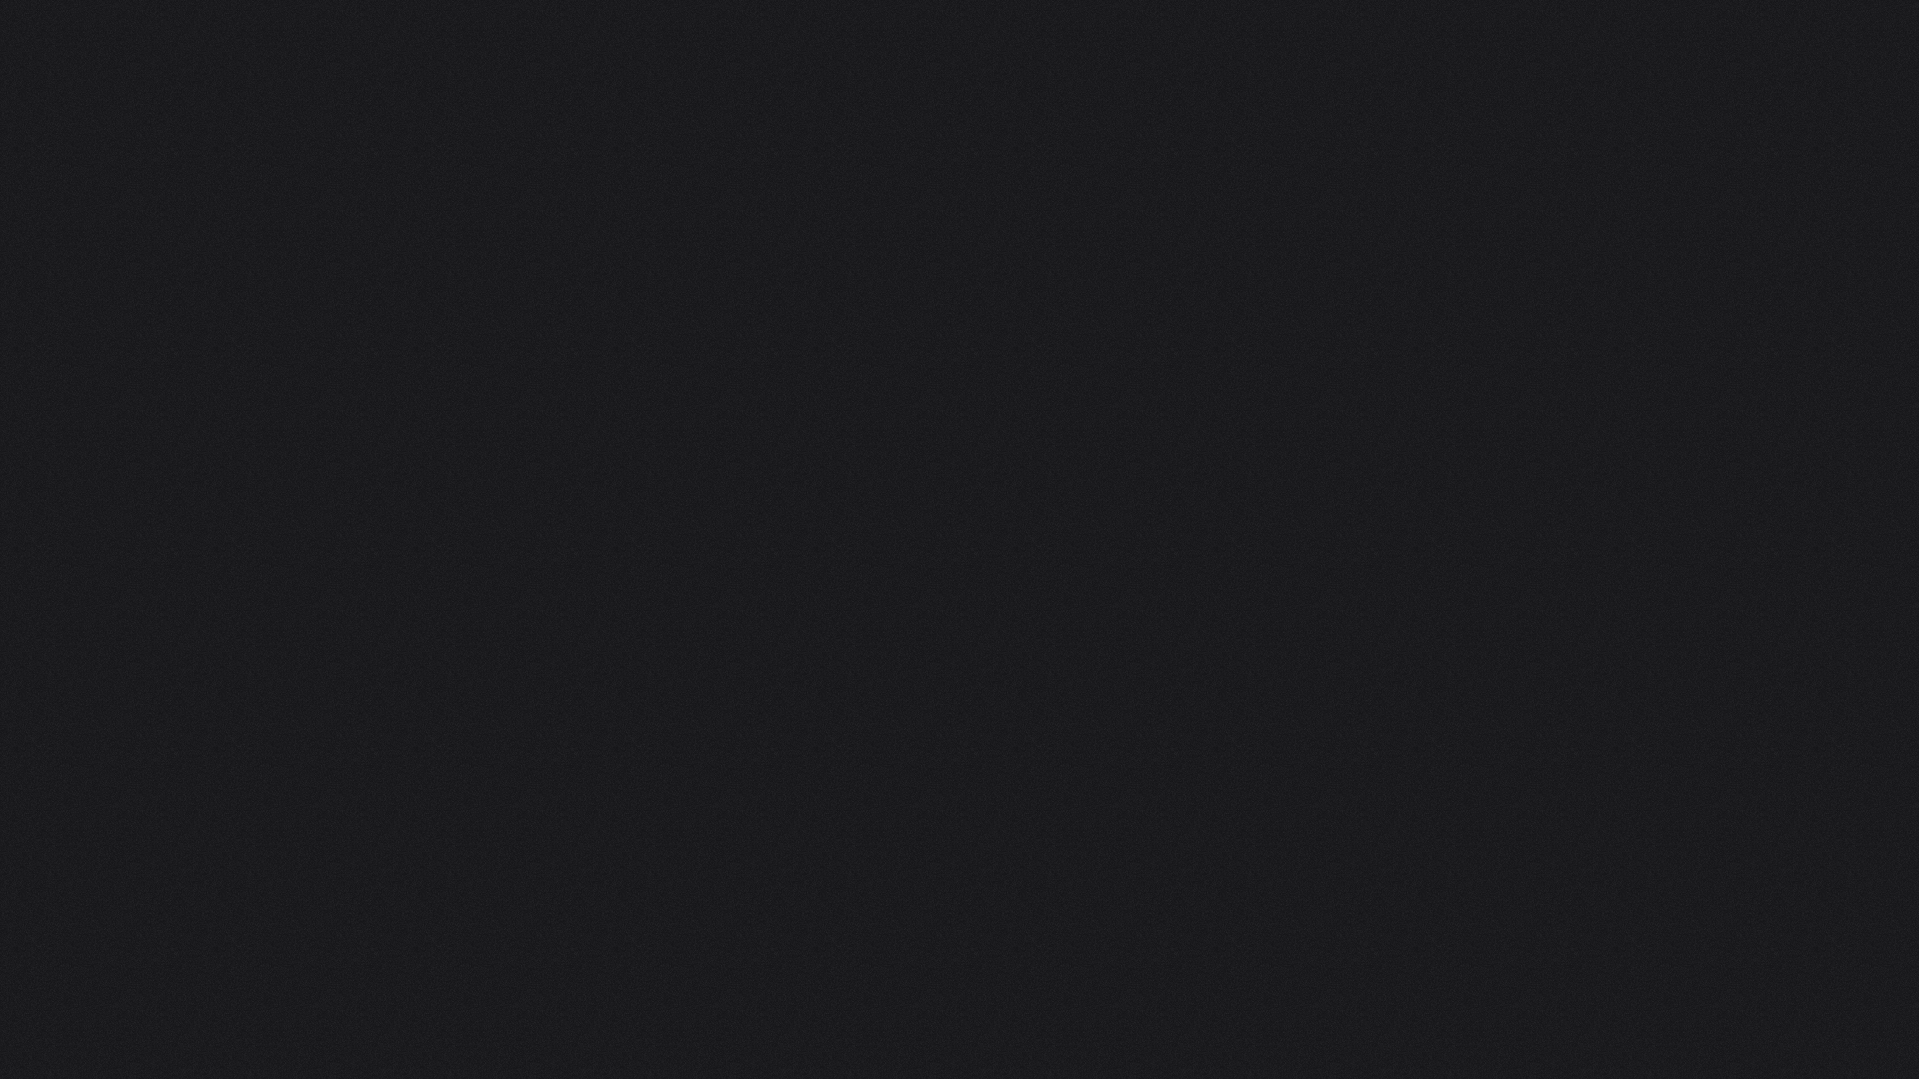
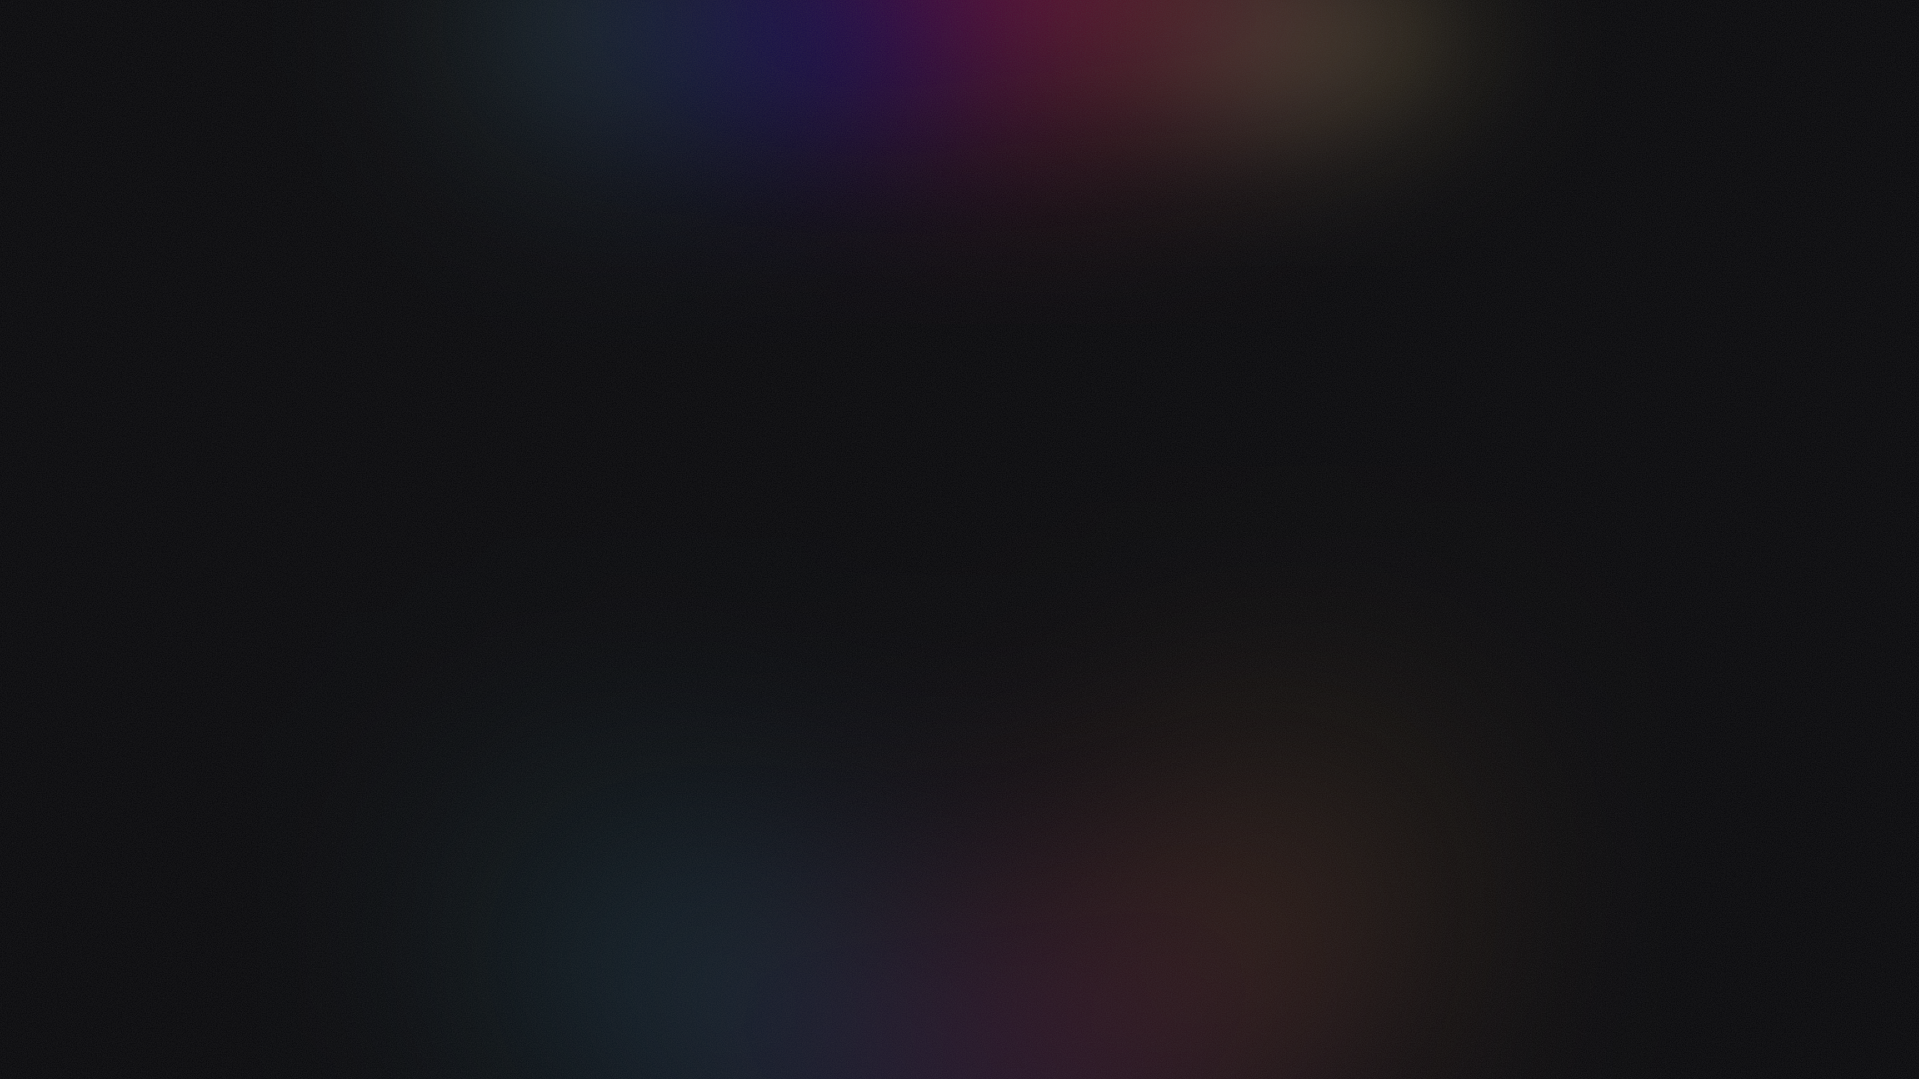
Update content in Content component and background in index.css

Changed region(s): [[0.3075, 0.0, 0.7379, 0.1529], [0.5534, 0.8563, 0.6456, 0.9787]]

diff --git a/src/components/Content.jsx b/src/components/Content.jsx
@@ -2,15 +2,17 @@ import React from 'react'
 
 export default function Content() {
 	return (
-		<div className='w-11/12 m-auto'>
+		<div className="w-11/12 m-auto">
 			<p className="text-secondary mt-8 py-3">
-				I have been focusing on daily self-improvement and adhering to a
-				structured learning plan. Currently, I am enrolled in a full-time{' '}
-				<span className="text-primary">MERN stack</span> training program at{' '}
-				<span className="text-primary">DCI</span>. Upon completing my training, I
-				aim to find a suitable job opportunity to work in a team, gain
-				experience, and progress on my path to becoming a{' '}
-				<span className="text-primary">Full Stack Developer</span>.
+				I have 3 years of experience as a web developer and I am currently a
+				full-time student in the further education program at{' '}
+				<span className="text-primary">DCI</span> to advance my skills as a{' '}
+				<span className="text-primary">full-stack developer</span>. The
+				intensive training program mainly focuses on the{' '}
+				<span className="text-primary">MERN stack</span>. I am passionate about
+				using my skills and experience to create value for organizations. With
+				my education and experience, I am confident in delivering
+				action-oriented insights for clients.
 			</p>
 		</div>
 	)

diff --git a/src/index.css b/src/index.css
@@ -2,17 +2,13 @@
 @tailwind components;
 @tailwind utilities;
 
-:root {
-	background: linear-gradient(to bottom, #0c0a09, #000) no-repeat center center
-		fixed;
-}
-
 body {
 	font-family: ui-sans-serif, system-ui, -apple-system, BlinkMacSystemFont,
 		'Segoe UI', Roboto, 'Helvetica Neue', Arial, 'Noto Sans', sans-serif,
 		'Apple Color Emoji', 'Segoe UI Emoji', 'Segoe UI Symbol', 'Noto Color Emoji';
 	max-width: 38rem;
 	margin: 0 auto;
+	background: url('../src/assets/images/bg.png') center center fixed;
 }
 
 @media (max-width: 640px) {
